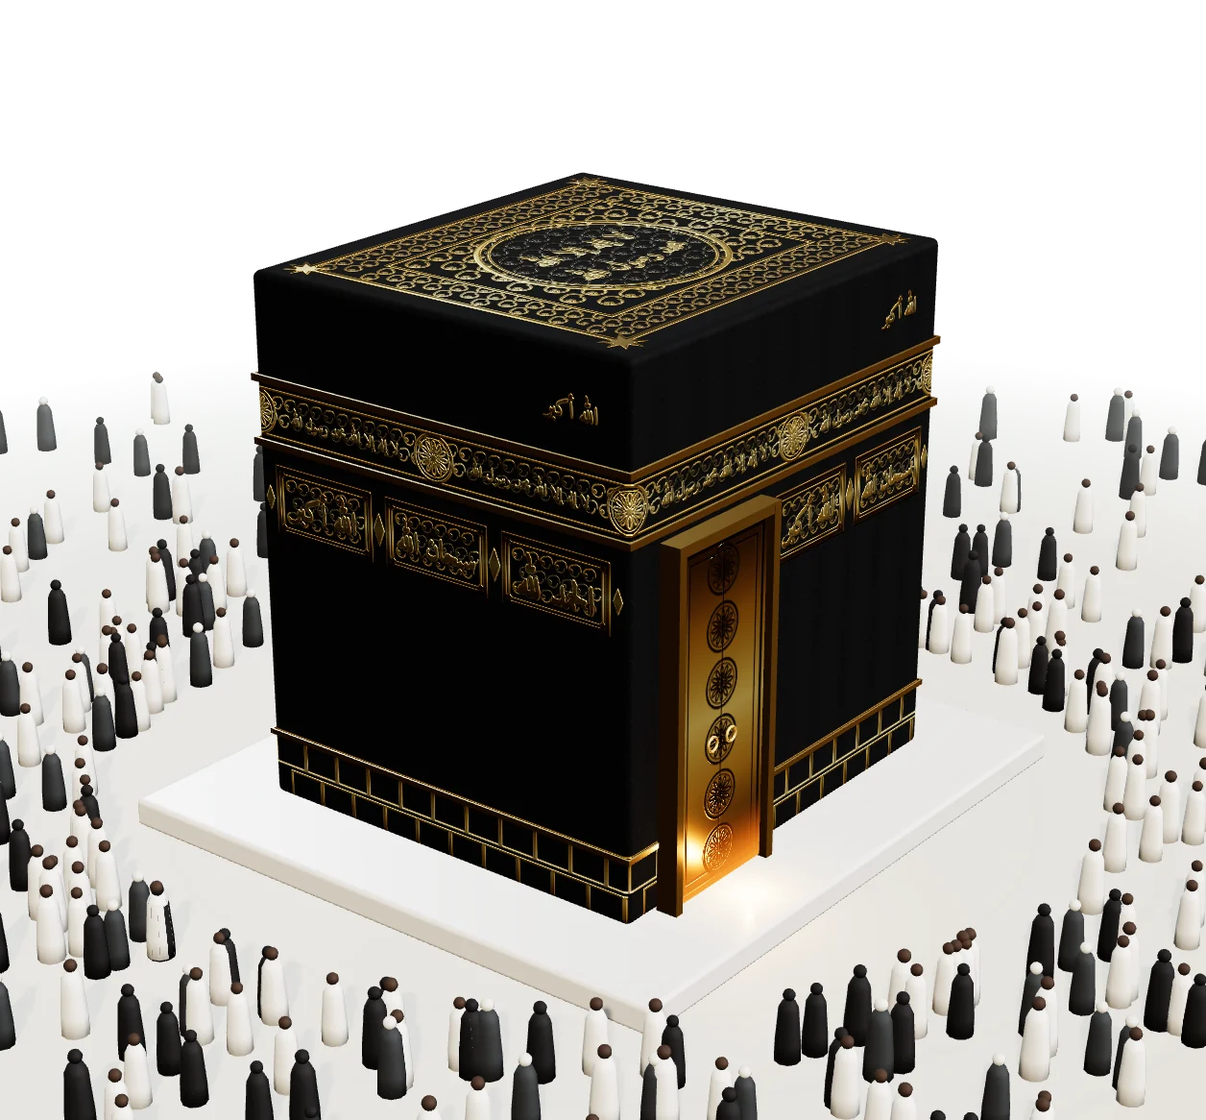
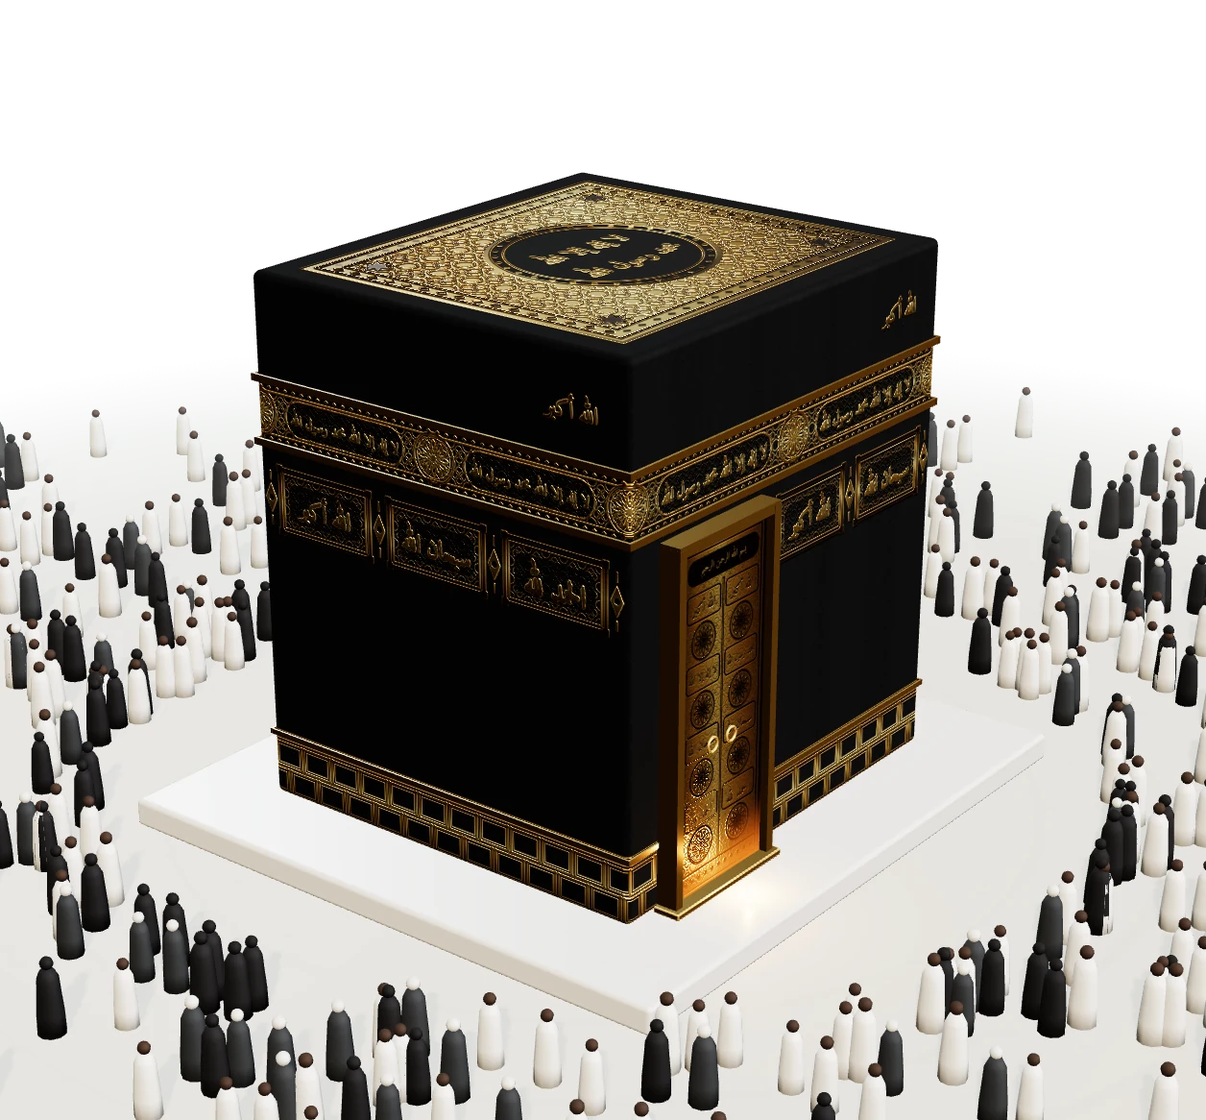
Кааба по образцу: детальный орнамент

Changed region(s): [[0.0, 0.3087, 1.0, 1.0], [0.2484, 0.1544, 0.7452, 0.3087]]

diff --git a/index.html b/index.html
@@ -1373,11 +1373,11 @@ function build(withText) {
   const cnv = (w, h) => { const c = document.createElement('canvas'); c.width = w; c.height = h; return [c, c.getContext('2d')]; };
 
   // ---------- Кааба в стиле образца: чёрная кисва, рельефное золото, мраморный постамент ----------
-  // Орнамент только геометрический и растительный — без букв и надписей.
   const H = 13.1, W = 12, D = 10.8;            // высота, ширина грани с дверью, глубина
   const PLINTH = 0.7, PL_PAD = 2.4;             // мраморный постамент: тонкий и широкий, как на образце
   const PPM = innerWidth < 720 ? 72 : 112;     // точек текстуры на метр
-  const GOLD_STOPS = [[0, '#8A6418'], [.24, '#DDB247'], [.5, '#FCE9A8'], [.7, '#E8C25E'], [1, '#8A6418']];   // ярко-жёлтое золото, как на образце
+  const GOLD_STOPS = [[0, '#76561C'], [.24, '#C99A45'], [.5, '#F2D78C'], [.72, '#D3A851'], [1, '#76561C']];   // тёплое металлическое золото, как на образце
+  const ENGRAVE = 'rgba(74,48,12,.92)';         // гравировка тёмным по золоту
 
   // Две «кисти» на два холста: цвет и данные (R — рельеф, G — шероховатость, B — металл).
   function pair(w, h) {
@@ -1436,7 +1436,7 @@ function build(withText) {
     for (let x = x0; x < x0 + w; x += step) P.draw(circle(x, mid, h * .07), {fill: g});
   }
 
-  function arText(P, text, x, y, maxW, maxH, fill, bold = .05) {
+  function arText(P, text, x, y, maxW, maxH, fill, bold = .05, data = 'rgb(255,70,255)') {
     const {cx, dx} = P;
     cx.font = '700 100px Amiri';
     const m = cx.measureText(text), th = m.actualBoundingBoxAscent + m.actualBoundingBoxDescent;
@@ -1448,8 +1448,35 @@ function build(withText) {
     cx.strokeStyle = fill; cx.strokeText(text, x, yy); cx.fillStyle = fill; cx.fillText(text, x, yy);
     cx.lineWidth = Math.max(1, size * .012); cx.strokeStyle = 'rgba(70,48,12,.6)'; cx.strokeText(text, x, yy);
     dx.lineJoin = 'round'; dx.lineWidth = Math.max(1.5, size * bold);
-    dx.strokeStyle = dx.fillStyle = 'rgb(255,70,255)'; dx.strokeText(text, x, yy); dx.fillText(text, x, yy);
+    dx.strokeStyle = dx.fillStyle = data; dx.strokeText(text, x, yy); dx.fillText(text, x, yy);
     cx.restore(); dx.restore();
+  }
+  function arabesque(P, x0, y0, w, h, color, cellTarget, {alpha = 1, lw = .055, data = 'rgb(200,80,255)'} = {}) {
+    const {cx, dx} = P;
+    const nx = Math.max(1, Math.round(w / cellTarget)), ny = Math.max(1, Math.round(h / cellTarget));
+    const cw = w / nx, ch = h / ny, c = Math.min(cw, ch);
+    const lines = new Path2D(), solid = new Path2D();
+    for (let j = 0; j < ny; j++) for (let i = 0; i < nx; i++) {
+      const X = x0 + (i + .5) * cw, Y = y0 + (j + .5) * ch, r = c * .2;
+      for (const [ox, oy] of [[r, 0], [-r, 0], [0, r], [0, -r]]) { lines.moveTo(X + ox + r, Y + oy); lines.arc(X + ox, Y + oy, r, 0, Math.PI * 2); }
+      for (const [sx, sy] of [[-1, -1], [1, -1], [1, 1], [-1, 1]]) {           // дуги в углах клетки — сцепка с соседями
+        const CX = X + sx * cw / 2, CY = Y + sy * ch / 2, R = c * .27, mid = Math.atan2(-sy, -sx);
+        lines.moveTo(CX + R * Math.cos(mid - Math.PI / 4), CY + R * Math.sin(mid - Math.PI / 4));
+        lines.arc(CX, CY, R, mid - Math.PI / 4, mid + Math.PI / 4);
+      }
+      solid.addPath(starPath(X, Y, c * .1, 8, .45, Math.PI / 8));
+      for (const [mx, my] of [[X, Y - ch / 2], [X, Y + ch / 2], [X - cw / 2, Y], [X + cw / 2, Y]]) solid.addPath(diamond(mx, my, c * .045, c * .045));
+    }
+    cx.save(); dx.save();
+    const clip = new Path2D(); clip.rect(x0, y0, w, h); cx.clip(clip); dx.clip(clip);
+    cx.globalAlpha = alpha; cx.lineWidth = Math.max(1, c * lw); cx.strokeStyle = cx.fillStyle = color; cx.stroke(lines); cx.fill(solid);
+    dx.lineWidth = Math.max(1, c * lw); dx.strokeStyle = dx.fillStyle = data; dx.stroke(lines); dx.fill(solid);
+    cx.restore(); dx.restore();
+  }
+  // Цепочка мелких ромбов между тонкими линиями — бордюр поясов и рамок
+  function chain(P, x0, y, w, size, g) {
+    const n = Math.max(1, Math.round(w / (size * 2.2))), step = w / n;
+    for (let i = 0; i < n; i++) P.draw(diamond(x0 + (i + .5) * step, y, size * .55, size * .45), {fill: g});
   }
   function filigree(P, x0, y0, w, h, g, cell) {
     const {cx, dx} = P;
@@ -1470,47 +1497,54 @@ function build(withText) {
   }
   const BAND = [.185, .315], PANELS = [.35, .47], LATTICE = .87;   // доли высоты сверху
   function sideFace(widthM, doorSpan = null) {
-    const P = pair(Math.round(widthM * PPM), Math.round(H * PPM)), {cx, w, h} = P;
-    // чёрная ткань с едва заметным узором и складками
+    const P = pair(Math.round(widthM * PPM), Math.round(H * PPM)), {cx, dx, w, h} = P;
+    // чёрная кисва: глубокий чёрный, тонкие вертикальные складки (и в рельефе), едва видное плетение
     cx.fillStyle = '#040405'; cx.fillRect(0, 0, w, h);
-    cx.strokeStyle = 'rgba(255,255,255,.026)'; cx.lineWidth = 2;
+    for (let i = 0; i < w; i += 4) {
+      const f = Math.sin(i * .021) * .6 + Math.sin(i * .057 + 1.3) * .4;
+      cx.fillStyle = `rgba(255,255,255,${(f * .5 + .5) * .012})`; cx.fillRect(i, 0, 4, h);
+      dx.fillStyle = `rgb(${Math.round(14 + f * 12)},215,0)`; dx.fillRect(i, 0, 4, h);
+    }
+    cx.strokeStyle = 'rgba(255,255,255,.022)'; cx.lineWidth = 2;
     const S = PPM * .7;
     for (let row = 0, yy = 0; yy < h + S; row++, yy += S) for (let xx = (row % 2 ? S / 2 : 0) - S; xx < w + S; xx += S) {
       cx.beginPath(); cx.moveTo(xx, yy - S / 2); cx.quadraticCurveTo(xx + S / 2, yy, xx, yy + S / 2); cx.quadraticCurveTo(xx - S / 2, yy, xx, yy - S / 2); cx.stroke();
-      P.dx.strokeStyle = 'rgb(38,200,0)'; P.dx.lineWidth = 3; P.dx.beginPath(); P.dx.moveTo(xx, yy - S / 2); P.dx.quadraticCurveTo(xx + S / 2, yy, xx, yy + S / 2); P.dx.quadraticCurveTo(xx - S / 2, yy, xx, yy - S / 2); P.dx.stroke();
+      dx.strokeStyle = 'rgb(40,200,0)'; dx.lineWidth = 3; dx.beginPath(); dx.moveTo(xx, yy - S / 2); dx.quadraticCurveTo(xx + S / 2, yy, xx, yy + S / 2); dx.quadraticCurveTo(xx - S / 2, yy, xx, yy - S / 2); dx.stroke();
     }
-    for (let i = 0; i < w; i += 6) { cx.fillStyle = `rgba(255,255,255,${(Math.sin(i * .045) * .5 + .5) * .01})`; cx.fillRect(i, 0, 6, h); }
 
-    // пояс: двойные золотые кромки, розетки и вьющийся орнамент
+    // ---- пояс: толстые кромки, бордюры из ромбов, арабеск фоном, Шахада в картушах, розетки
     const by = h * BAND[0], bh = h * (BAND[1] - BAND[0]), g = P.gold(by, by + bh);
-    for (const yy of [by, by + bh - h * .012]) P.draw(rect(0, yy, w, h * .012), {fill: g});
-    for (const yy of [by + h * .02, by + bh - h * .024]) P.draw(rect(0, yy, w, h * .004), {fill: g});
-    const innerTop = by + h * .028, innerH = bh - h * .056;
+    const e = h * .011, t = h * .0032;
+    P.draw(rect(0, by, w, e), {fill: g}); P.draw(rect(0, by + bh - e, w, e), {fill: g});
+    P.draw(rect(0, by + e + h * .013, w, t), {fill: g}); P.draw(rect(0, by + bh - e - h * .013 - t, w, t), {fill: g});
+    chain(P, 0, by + e + h * .0065, w, h * .009, g); chain(P, 0, by + bh - e - h * .0065, w, h * .009, g);
+    const innerTop = by + e + h * .017, innerH = bh - 2 * (e + h * .017);
+    arabesque(P, 0, innerTop, w, innerH, g, innerH * .5, {alpha: .62});
     if (withText) {
-      // пояс сплошь в золоте: тонкая вязь фоном, Шахада дважды на грани (каждая целиком),
-      // розетки на стыках и на углах (на углах — пополам, как продолжение на соседнюю грань)
-      filigree(P, 0, innerTop, w, innerH, g, innerH * .42);
       const k = 2, slot = w / k;
-      for (let i = 0; i <= k; i++) rosette(P, i * slot, by + bh / 2, bh * .32, g);
       for (let i = 0; i < k; i++) {
-        // под надписью — тёмная подложка, чтобы буквы читались поверх вязи
-        const tx = (i + .5) * slot, tw = slot - bh * 1.15;
-        cx.save(); cx.globalAlpha = .55; cx.fillStyle = '#060504'; cx.fillRect(tx - tw / 2, innerTop + innerH * .08, tw, innerH * .84); cx.restore();
-        arText(P, SHAHADA, tx, by + bh / 2, tw * .96, innerH * .92, g, .06);
+        const tx = (i + .5) * slot, tw = slot - bh * 1.05;
+        const cart = new Path2D(); cart.roundRect(tx - tw / 2, innerTop + innerH * .04, tw, innerH * .92, innerH * .46);
+        cx.save(); cx.fillStyle = 'rgba(5,4,3,.72)'; cx.fill(cart); cx.restore();
+        P.draw(cart, {stroke: g, lw: h * .0028});
+        arText(P, SHAHADA, tx, by + bh / 2, tw * .92, innerH * .86, g, .07);
       }
+      for (let i = 0; i <= k; i++) rosette(P, i * slot, by + bh / 2, bh * .34, g);
       // надпись в верхнем углу грани, как на образце
       arText(P, PHRASES[0], w * .86, h * .1, w * .2, h * .055, P.gold(h * .07, h * .13));
     } else {
-      const unit = bh * 2.2;
-      for (let x = unit / 2; x < w + unit; x += unit) {
-        rosette(P, x, by + bh / 2, bh * .36, g);
-        vines(P, x + bh * .4, innerTop, unit - bh * .8, innerH, g, (unit - bh * .8) / 2);
-      }
+      for (let i = 0; i <= 4; i++) rosette(P, i * w / 4, by + bh / 2, bh * .34, g);
     }
-    // панели под поясом и ромбы между ними
+
+    // ---- панели: двойная рамка с уголками, арабеск фоном, крупная надпись; между — ромбы и вставки
     const py = h * PANELS[0], ph = h * (PANELS[1] - PANELS[0]);
-    const pg = P.gold(py, py + ph), gap = PPM * .55;
-    // отрезки грани для панелей: без места двери
+    const pg = P.gold(py, py + ph), gap = PPM * .6;
+    const insert = (x) => {                                   // ромб с вертикальными штрихами — вставка между панелями
+      P.draw(diamond(x, py + ph / 2, gap * .3, ph * .24), {fill: pg});
+      P.draw(rect(x - h * .0016, py + ph * .06, h * .0032, ph * .16), {fill: pg});
+      P.draw(rect(x - h * .0016, py + ph * .78, h * .0032, ph * .16), {fill: pg});
+      P.draw(circle(x, py + ph / 2, ph * .045), {fill: '#0a0806', relief: 0});
+    };
     const segs = doorSpan ? [[0, doorSpan[0] * PPM], [doorSpan[1] * PPM, w]] : [[0, w]];
     let phrase = 0;
     for (const [s0, s1] of segs) {
@@ -1519,55 +1553,67 @@ function build(withText) {
       const n = Math.max(1, Math.round(L / (PPM * 3.1))), pw = (L - gap * (n + 1)) / n;
       for (let i = 0; i < n; i++) {
         const x = s0 + gap + i * (pw + gap);
-        const ix = x + h * .01, iy = py + h * .01, iw = pw - h * .02, ih = ph - h * .02;
-        P.draw(rect(x, py, pw, ph), {stroke: pg, lw: h * .009});
-        P.draw(rect(ix, iy, iw, ih), {stroke: pg, lw: h * .003});
-        for (const [cxp, cyp] of [[ix, iy], [ix + iw, iy], [ix, iy + ih], [ix + iw, iy + ih]]) P.draw(circle(cxp, cyp, h * .006), {fill: pg});
-        filigree(P, ix + h * .004, iy + h * .004, iw - h * .008, ih - h * .008, pg, ih * .3);
+        const ix = x + h * .009, iy = py + h * .009, iw = pw - h * .018, ih = ph - h * .018;
+        P.draw(rect(x, py, pw, ph), {stroke: pg, lw: h * .008});
+        P.draw(rect(ix, iy, iw, ih), {stroke: pg, lw: h * .0028});
+        for (const [qx, qy] of [[x, py], [x + pw, py], [x, py + ph], [x + pw, py + ph]]) P.draw(rect(qx - h * .007, qy - h * .007, h * .014, h * .014), {fill: pg});
+        arabesque(P, ix + h * .003, iy + h * .003, iw - h * .006, ih - h * .006, pg, ih * .34, {alpha: .55});
         if (withText) {
-          cx.save(); cx.globalAlpha = .5; cx.fillStyle = '#060504'; cx.fillRect(ix + iw * .08, iy + ih * .18, iw * .84, ih * .64); cx.restore();
-          arText(P, PHRASES[phrase++ % PHRASES.length], x + pw / 2, py + ph / 2, pw * .82, ph * .66, pg, .06);
-        } else vines(P, x + h * .02, py + h * .015, pw - h * .04, ph - h * .03, pg, (pw - h * .04) / 2.5);
-        if (i < n - 1) P.draw(diamond(x + pw + gap / 2, py + ph / 2, gap * .3, ph * .26), {fill: pg});
+          const cart = new Path2D(); cart.roundRect(ix + iw * .06, iy + ih * .14, iw * .88, ih * .72, ih * .2);
+          cx.save(); cx.fillStyle = 'rgba(5,4,3,.7)'; cx.fill(cart); cx.restore();
+          arText(P, PHRASES[phrase++ % PHRASES.length], x + pw / 2, py + ph / 2, iw * .8, ih * .62, pg, .07);
+        }
+        if (i < n - 1) insert(x + pw + gap / 2);
       }
-      // ромбы и по краям ряда панелей, как на образце
-      for (const ex of [s0 + gap / 2, s1 - gap / 2]) P.draw(diamond(ex, py + ph / 2, gap * .24, ph * .2), {fill: pg});
+      for (const ex of [s0 + gap / 2, s1 - gap / 2]) insert(ex);
     }
-    // золотая «плитка» внизу
+
+    // ---- нижняя кладка: золотые контуры сегментов, тёмные швы, уголки
     const ly = h * LATTICE, lh = h - ly, lg = P.gold(ly, h);
-    P.draw(rect(0, ly, w, h * .01), {fill: lg});
-    const rows = 2, tile = lh / rows;
-    for (let r = 0; r < rows; r++) for (let x = (r % 2) * tile * .6; x < w; x += tile * 1.2) {
-      P.draw(rect(x + 3, ly + h * .01 + r * tile + 3, tile * 1.2 - 6, tile - 6 - (r ? 0 : h * .005)), {stroke: lg, lw: h * .0035});
+    P.draw(rect(0, ly, w, h * .012), {fill: lg});
+    P.draw(rect(0, ly + h * .016, w, h * .0028), {fill: lg});
+    const rows = 2, top = ly + h * .021, tile = (h - top) / rows, tl = tile * 1.3;
+    for (let r = 0; r < rows; r++) for (let x = -(r % 2) * tl / 2; x < w; x += tl) {
+      const yy = top + r * tile, pad = h * .0035;
+      P.draw(rect(x + pad, yy + pad, tl - pad * 2, tile - pad * 2), {stroke: lg, lw: h * .0042});
+      P.draw(rect(x + pad * 2.6, yy + pad * 2.6, tl - pad * 5.2, tile - pad * 5.2), {stroke: lg, lw: h * .0013});
+      for (const [qx, qy] of [[x + pad, yy + pad], [x + tl - pad, yy + pad], [x + pad, yy + tile - pad], [x + tl - pad, yy + tile - pad]]) P.draw(circle(qx, qy, h * .0035), {fill: lg});
     }
     return P;
   }
   function roofFace() {
-    const P = pair(Math.round(W * PPM), Math.round(D * PPM)), {cx, w, h} = P;
+    const P = pair(Math.round(W * PPM), Math.round(D * PPM)), {cx, dx, w, h} = P;
     cx.fillStyle = '#050506'; cx.fillRect(0, 0, w, h);
-    const g = P.gold(0, h), m = Math.min(w, h);
-    // широкая рамка, внутри сплошная вязь
-    const o = m * .08, i = m * .2;
-    P.draw(rect(o, o, w - 2 * o, h - 2 * o), {stroke: g, lw: m * .014});
-    P.draw(rect(i, i, w - 2 * i, h - 2 * i), {stroke: g, lw: m * .01});
-    for (const [x, y, ww, hh] of [[o, o, w - 2 * o, i - o], [o, h - i, w - 2 * o, i - o], [o, i, i - o, h - 2 * i], [w - i, i, i - o, h - 2 * i]])
-      filigree(P, x + m * .006, y + m * .006, ww - m * .012, hh - m * .012, g, (i - o) * .42);
-    for (const [x, y] of [[o, o], [w - o, o], [o, h - o], [w - o, h - o]]) P.draw(starPath(x, y, m * .05, 8, .45), {fill: g});
-    // поле внутри рамки: тонкая вязь, по углам — веера
-    filigree(P, i + m * .01, i + m * .01, w - 2 * i - m * .02, h - 2 * i - m * .02, g, m * .07);
-    cx.save(); cx.globalAlpha = .7; cx.fillStyle = '#050506';
-    cx.beginPath(); cx.arc(w / 2, h / 2, m * .27, 0, Math.PI * 2); cx.fill(); cx.restore();
-    // медальон: кольца, лепестки по кругу, в центре — Шахада в две строки
-    P.draw(circle(w / 2, h / 2, m * .27), {stroke: g, lw: m * .014});
-    P.draw(circle(w / 2, h / 2, m * .245), {stroke: g, lw: m * .005});
-    for (let k = 0; k < 24; k++) {
-      const a = k * Math.PI / 12, r1 = m * .25, r2 = m * .27;
-      P.draw(circle(w / 2 + Math.cos(a) * (r1 + r2) / 2, h / 2 + Math.sin(a) * (r1 + r2) / 2, m * .006), {fill: g});
+    const m = Math.min(w, h), o = m * .075;
+    const gg = cx.createLinearGradient(o, o, w - o, h - o);
+    for (const [k, col] of GOLD_STOPS) gg.addColorStop(k, col);
+    const carpet = rect(o, o, w - 2 * o, h - 2 * o);
+    P.draw(carpet, {fill: gg});
+    // гравировка по всему ковру
+    arabesque(P, o + m * .07, o + m * .07, w - 2 * o - m * .14, h - 2 * o - m * .14, ENGRAVE, m * .085, {lw: .05, data: 'rgb(40,120,210)'});
+    // бордюр ковра: две тёмные линии и цепочка ромбов
+    for (const d of [m * .02, m * .062]) P.draw(rect(o + d, o + d, w - 2 * (o + d), h - 2 * (o + d)), {stroke: ENGRAVE, lw: m * .006, relief: 30});
+    for (const [x, y, len] of [[o + m * .041, o + m * .041, w - 2 * o - m * .082], [o + m * .041, h - o - m * .041, w - 2 * o - m * .082]])
+      chain(P, x, y, len, m * .022, ENGRAVE);
+    for (const x of [o + m * .041, w - o - m * .041]) {
+      const n = Math.round((h - 2 * o - m * .082) / (m * .048)), step = (h - 2 * o - m * .082) / n;
+      for (let i = 0; i < n; i++) P.draw(diamond(x, o + m * .041 + (i + .5) * step, m * .011, m * .013), {fill: ENGRAVE, relief: 30});
     }
+    for (const [x, y] of [[o + m * .11, o + m * .11], [w - o - m * .11, o + m * .11], [o + m * .11, h - o - m * .11], [w - o - m * .11, h - o - m * .11]])
+      P.draw(starPath(x, y, m * .045, 8, .45), {fill: ENGRAVE, relief: 30});
+    P.draw(carpet, {stroke: P.gold(0, h), lw: m * .012});
+    // медальон: тёмный круг, золотое кольцо с бусинами, Шахада в две строки
+    const R = m * .25, cxm = w / 2, cym = h / 2;
+    cx.save(); cx.fillStyle = '#080605'; cx.beginPath(); cx.arc(cxm, cym, R, 0, Math.PI * 2); cx.fill(); cx.restore();
+    dx.save(); dx.fillStyle = 'rgb(0,200,0)'; dx.beginPath(); dx.arc(cxm, cym, R, 0, Math.PI * 2); dx.fill(); dx.restore();
+    const ring = P.gold(cym - R, cym + R);
+    P.draw(circle(cxm, cym, R), {stroke: ring, lw: m * .016});
+    P.draw(circle(cxm, cym, R * .86), {stroke: ring, lw: m * .005});
+    for (let k = 0; k < 32; k++) { const a = k * Math.PI / 16; P.draw(circle(cxm + Math.cos(a) * R * .93, cym + Math.sin(a) * R * .93, m * .006), {fill: ring}); }
     if (withText) {
-      arText(P, 'لا إله إلا الله', w / 2, h / 2 - m * .065, m * .36, m * .11, g, .06);
-      arText(P, 'محمد رسول الله', w / 2, h / 2 + m * .075, m * .36, m * .11, g, .06);
-    } else rosette(P, w / 2, h / 2, m * .2, g);
+      arText(P, 'لا إله إلا الله', cxm, cym - R * .24, R * 1.3, R * .38, ring, .07);
+      arText(P, 'محمد رسول الله', cxm, cym + R * .3, R * 1.3, R * .38, ring, .07);
+    } else rosette(P, cxm, cym, R * .7, ring);
     return P;
   }
   const material = P => {
@@ -1617,21 +1663,44 @@ function build(withText) {
   const DH = H * (1 - BAND[1]) - .45;            // от постамента до пояса, как на образце
   const DP = pair(Math.round(DW * PPM * 1.6), Math.round(DH * PPM * 1.6));
   {
-    const {cx, w, h} = DP, g = DP.gold(0, h);
-    cx.fillStyle = g; cx.fillRect(0, 0, w, h);
-    DP.dx.fillStyle = 'rgb(150,80,255)'; DP.dx.fillRect(0, 0, w, h);
-    const dark = '#6A4813';
-    DP.draw(rect(w * .05, h * .025, w * .9, h * .95), {stroke: dark, lw: w * .025, relief: 40});
-    DP.draw(rect(w * .12, h * .05, w * .76, h * .9), {stroke: dark, lw: w * .01, relief: 40});
-    for (let i = 0; i < 6; i++) rosette(DP, w / 2, h * (.1 + i * .16), Math.min(w * .28, h * .066), dark);
-    DP.draw(rect(w / 2 - w * .006, h * .05, w * .012, h * .9), {fill: dark, relief: 40});
+    const {cx, dx, w, h} = DP;
+    const gx = cx.createLinearGradient(0, 0, w, 0);               // поперечный перелив металла
+    for (const [k, col] of [[0, '#8A6420'], [.2, '#D9AE55'], [.45, '#F4DC92'], [.55, '#E8C674'], [.8, '#C99A45'], [1, '#8A6420']]) gx.addColorStop(k, col);
+    cx.fillStyle = gx; cx.fillRect(0, 0, w, h);
+    dx.fillStyle = 'rgb(150,75,255)'; dx.fillRect(0, 0, w, h);
+    const eng = (path, lw) => DP.draw(path, {stroke: ENGRAVE, lw, relief: 30});
+    arabesque(DP, w * .06, h * .03, w * .88, h * .94, 'rgba(74,48,12,.32)', w * .16, {lw: .04, data: 'rgb(90,90,230)'});
+    eng(rect(w * .03, h * .012, w * .94, h * .976), w * .022);
+    eng(rect(w * .07, h * .024, w * .86, h * .952), w * .008);
+    // верхний картуш — Басмала
+    const ct = new Path2D(); ct.roundRect(w * .1, h * .04, w * .8, h * .07, h * .03);
+    cx.save(); cx.fillStyle = 'rgba(40,26,6,.85)'; cx.fill(ct); cx.restore();
+    if (withText) arText(DP, 'بسم الله الرحمن الرحيم', w / 2, h * .075, w * .72, h * .05, DP.gold(h * .04, h * .11), .06);
+    // две створки
+    eng(rect(w / 2 - w * .006, h * .125, w * .012, h * .8), w * .01);
+    const L = [['الله أكبر', 'لا إله إلا الله', 'سبحان الله', 'الحمد لله'], ['الله أكبر', 'محمد رسول الله', 'سبحان الله', 'الحمد لله']];
+    for (const [side, x0] of [[0, w * .1], [1, w * .53]]) {
+      const lw = w * .37;
+      for (let r = 0; r < 4; r++) {
+        const y = h * (.135 + r * .195);
+        // панель с надписью
+        const pr = new Path2D(); pr.roundRect(x0, y, lw, h * .075, h * .012);
+        eng(pr, w * .009);
+        if (withText) arText(DP, L[side][r], x0 + lw / 2, y + h * .0375, lw * .84, h * .05, ENGRAVE, .05, 'rgb(25,120,210)');
+        // медальон под панелью
+        rosette(DP, x0 + lw / 2, y + h * .135, Math.min(lw * .36, h * .05), ENGRAVE);
+      }
+    }
+    // нижний бордюр над порогом
+    eng(rect(w * .07, h * .925, w * .86, h * .002), w * .006);
+    chain(DP, w * .08, h * .948, w * .84, h * .014, ENGRAVE);
   }
   const [ec, ex] = cnv(64, 256);
   const eg = ex.createLinearGradient(0, 0, 0, 256);
   eg.addColorStop(0, '#000'); eg.addColorStop(.8, '#000'); eg.addColorStop(1, '#FFB347');
   ex.fillStyle = eg; ex.fillRect(0, 0, 64, 256);
   const doorMat = material(DP);
-  Object.assign(doorMat, {emissive: new THREE.Color(0xFFB347), emissiveMap: tex(ec), emissiveIntensity: 1.4});
+  Object.assign(doorMat, {emissive: new THREE.Color(0xFFB347), emissiveMap: tex(ec), emissiveIntensity: 1.1});
   const door = new THREE.Mesh(new THREE.BoxGeometry(DW, DH, .35), doorMat);
   door.position.set(-W / 2 + DOOR_X, PLINTH + .05 + DH / 2, D / 2 + .17);
   door.castShadow = true;
@@ -1647,7 +1716,9 @@ function build(withText) {
     ring.position.set(door.position.x + dx, door.position.y - DH * .08, D / 2 + .38);
     scene.add(ring);
   }
-  const doorGlow = new THREE.PointLight(0xFFB347, 18, 9, 2);
+  const sill = new THREE.Mesh(new RoundedBoxGeometry(DW + .7, .16, .7, 2, .04), frameGold);   // порог
+  sill.position.set(door.position.x, PLINTH + .08, D / 2 + .35); sill.castShadow = true; scene.add(sill);
+  const doorGlow = new THREE.PointLight(0xFFB347, 14, 9, 2);
   doorGlow.position.set(door.position.x, PLINTH + .5, D / 2 + 1.2);
   scene.add(doorGlow);
 
